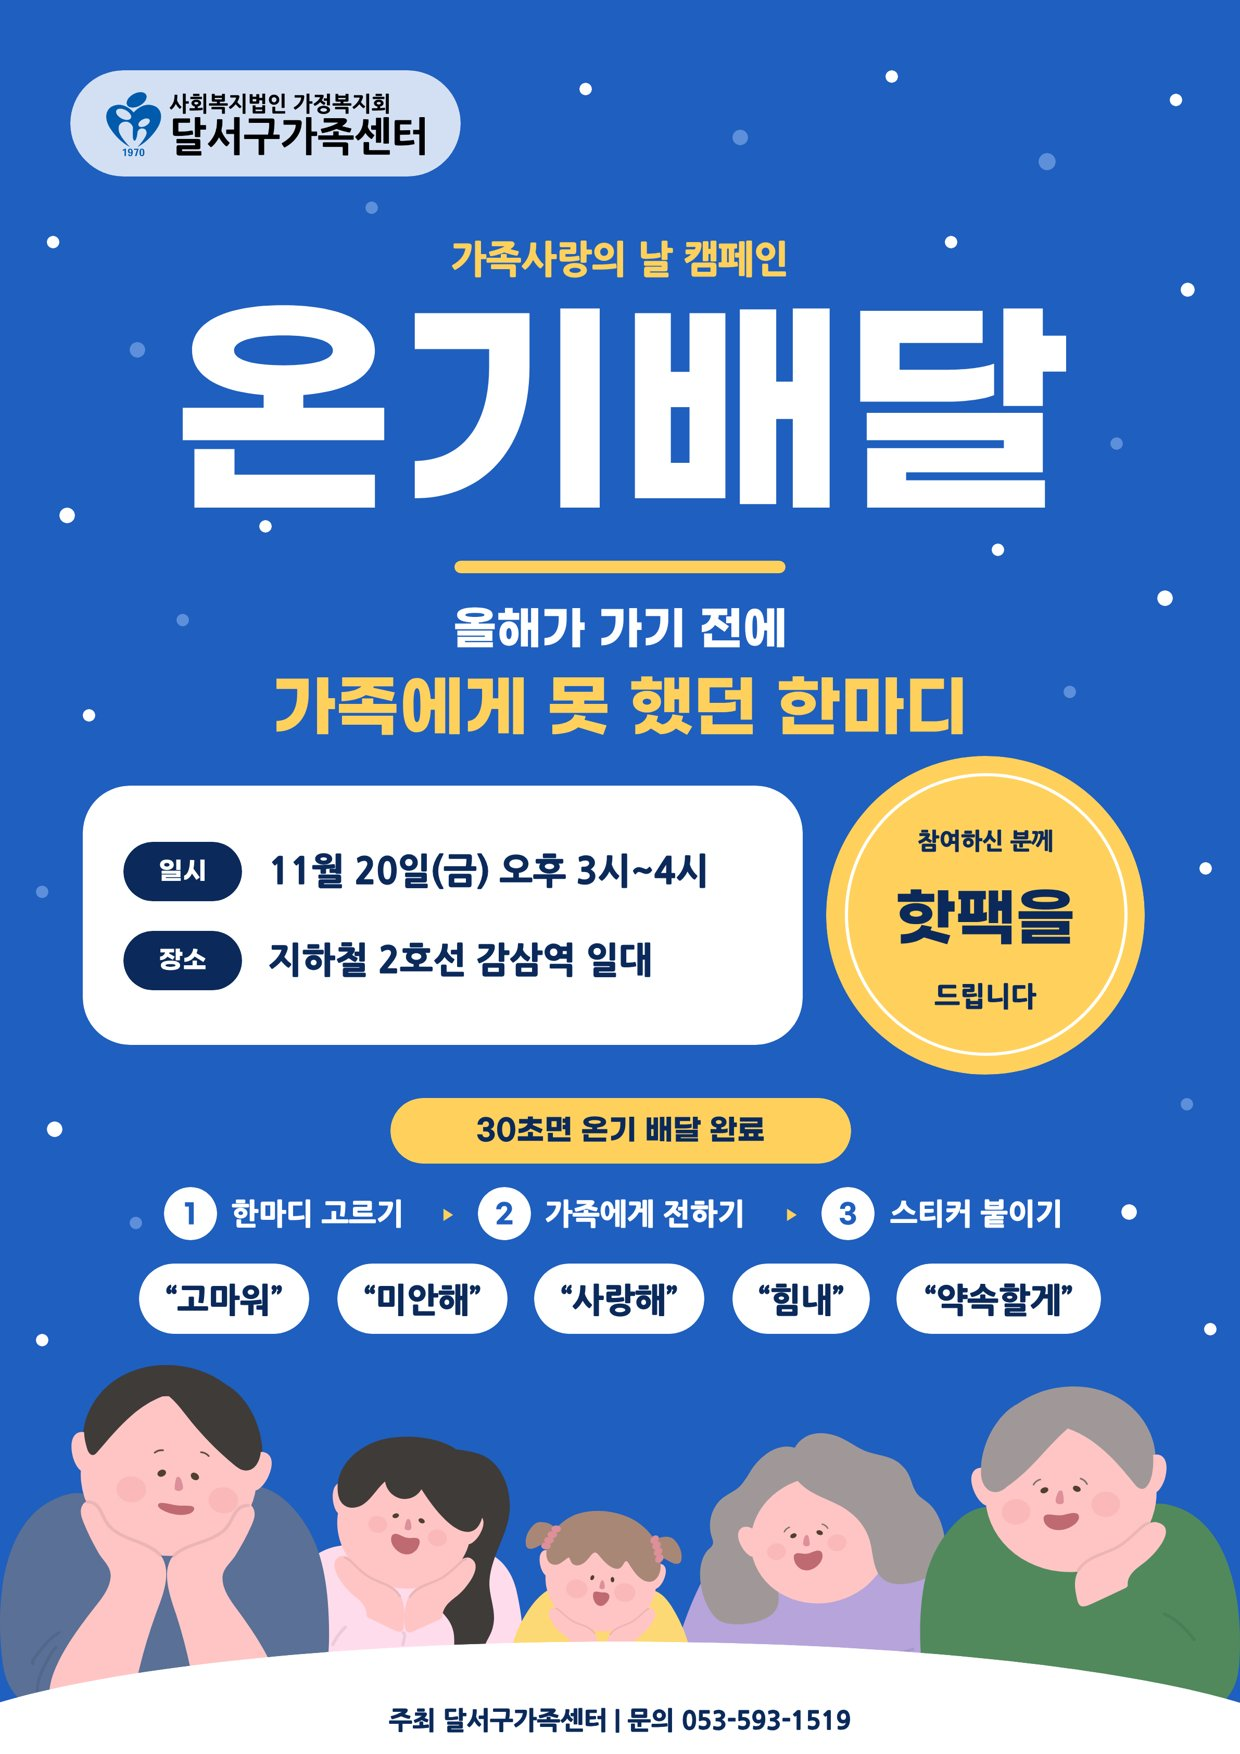
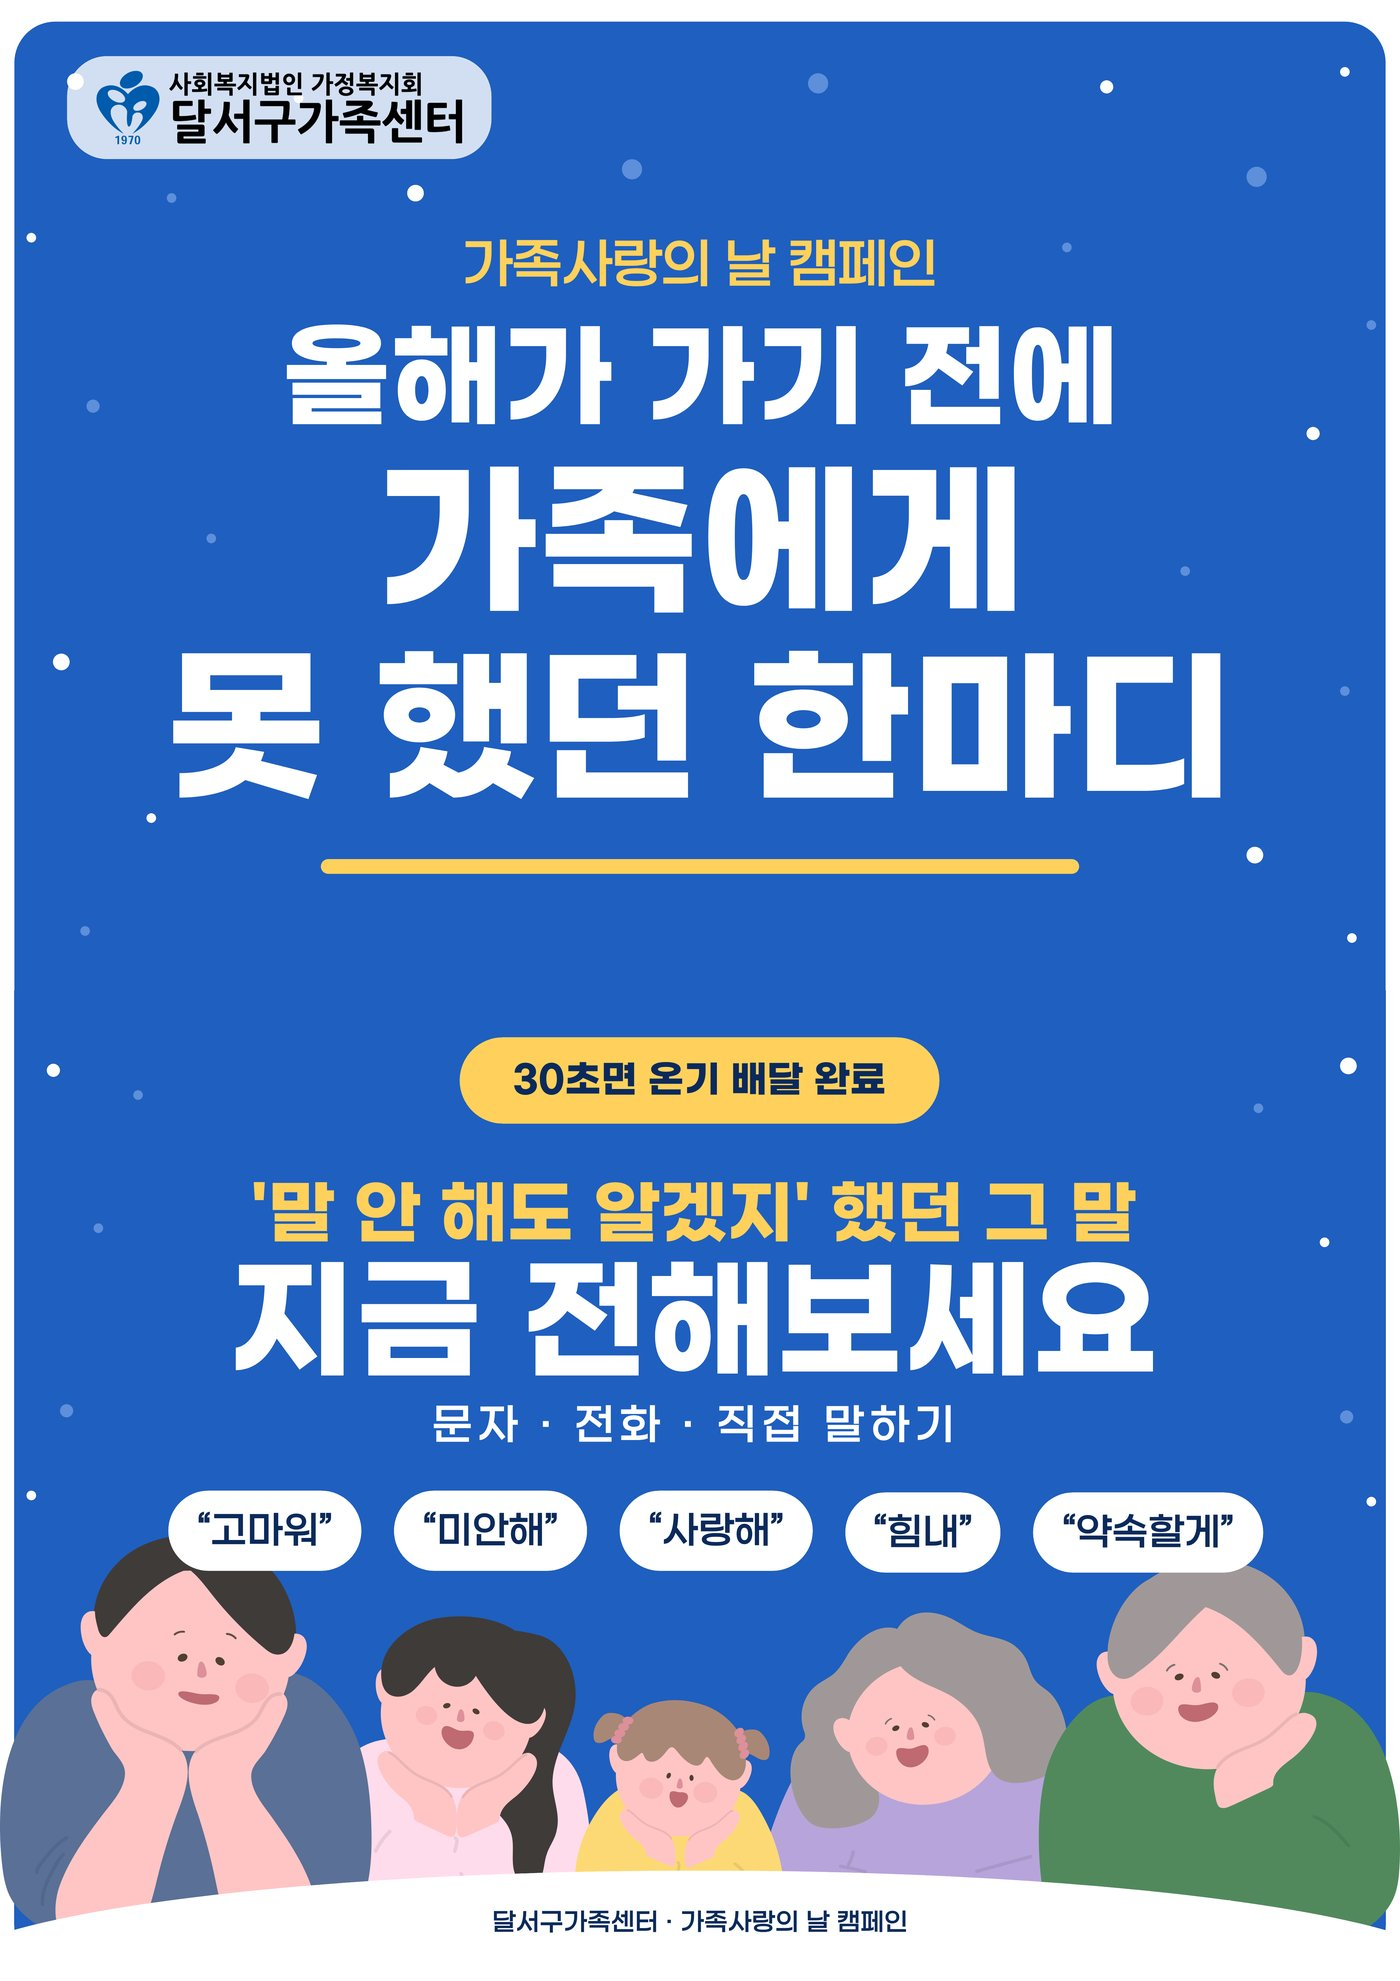
포스터를 홍보판 2장 합본으로 교체
Claude-Session: https://claude.ai/code/session_01ENASfKdDMwxUJxyR4kTueE

diff --git a/poster.html b/poster.html
@@ -9,14 +9,14 @@
 <meta property="og:image" content="https://cherish-lyn.github.io/ongi-baedal/poster.jpg">
 <meta name="theme-color" content="#2060C0">
 <style>
-  html,body{margin:0; background:#2060C0}
+  html,body{margin:0; background:#fff}
   img{display:block; width:100%; max-width:720px; height:auto; margin:0 auto}
   .links{max-width:720px; margin:0 auto; padding:16px 18px 28px; display:grid; gap:10px; background:#fff}
   .links a{display:block; text-align:center; text-decoration:none; font:800 16px/1.3 -apple-system,'Apple SD Gothic Neo','Malgun Gothic',sans-serif; color:#fff; background:#0C2A5C; padding:15px; border-radius:99px}
 </style>
 </head>
 <body>
-<img src="poster.jpg" width="1240" height="1754" alt="가족사랑의 날 캠페인 온기배달. 올해가 가기 전에 가족에게 못 했던 한마디. 11월 20일(금) 오후 3시~4시, 지하철 2호선 감삼역 일대. 참여하신 분께 핫팩을 드립니다. 주최 달서구가족센터, 문의 053-593-1519">
+<img src="poster.jpg?v=2" width="1400" height="1981" alt="달서구가족센터 가족사랑의 날 캠페인. 올해가 가기 전에 가족에게 못 했던 한마디. 30초면 온기 배달 완료. '말 안 해도 알겠지' 했던 그 말, 지금 전해보세요. 문자, 전화, 직접 말하기. 고마워, 미안해, 사랑해, 힘내, 약속할게.">
 <div class="links">
   <a href="https://dalseo.familynet.or.kr/center/index.do">달서구가족센터 홈페이지 바로가기</a>
   <a href="https://www.instagram.com/dalseo_family/">달서구가족센터 인스타그램 바로가기</a>
